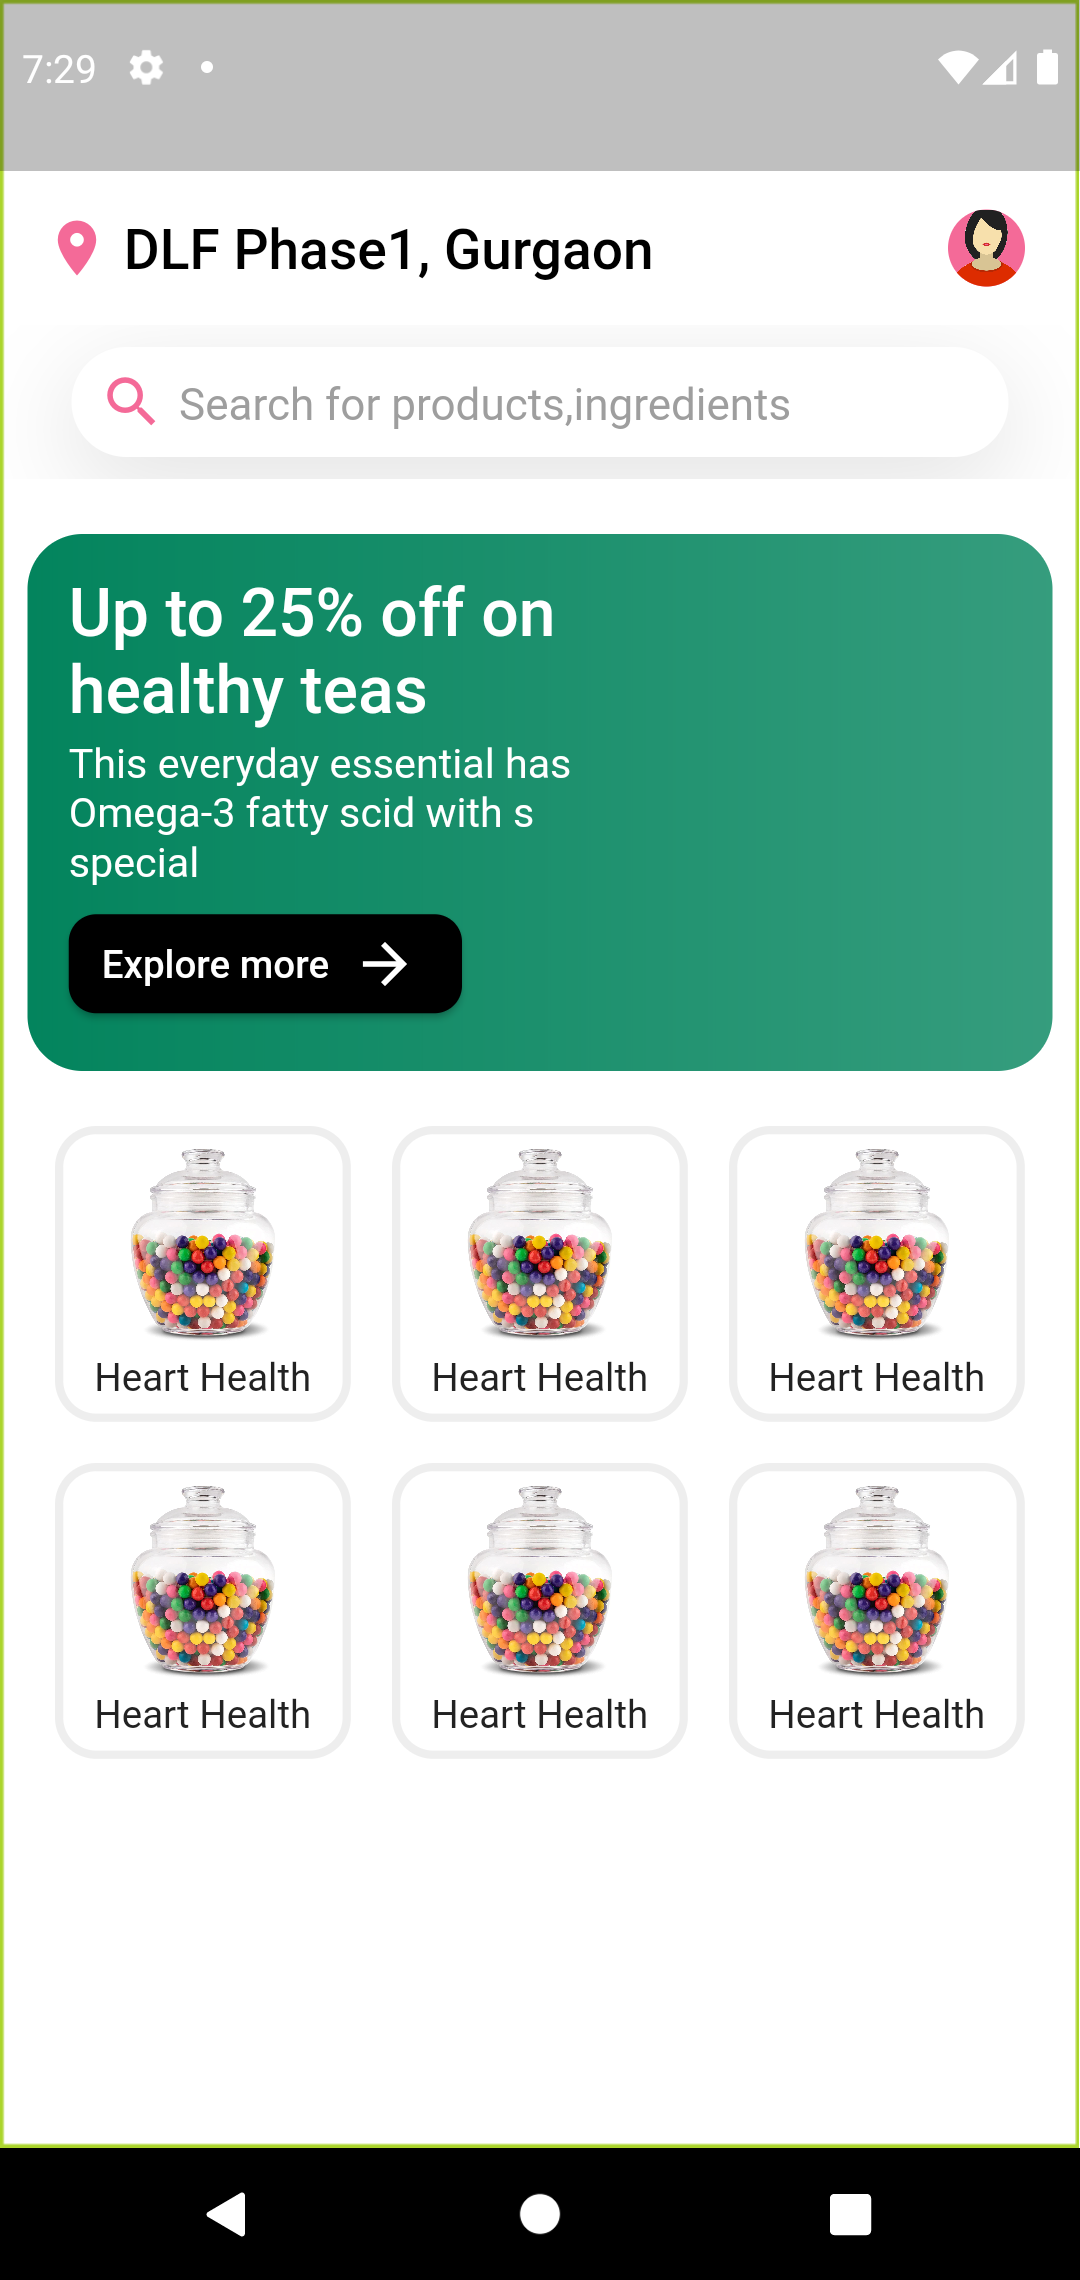
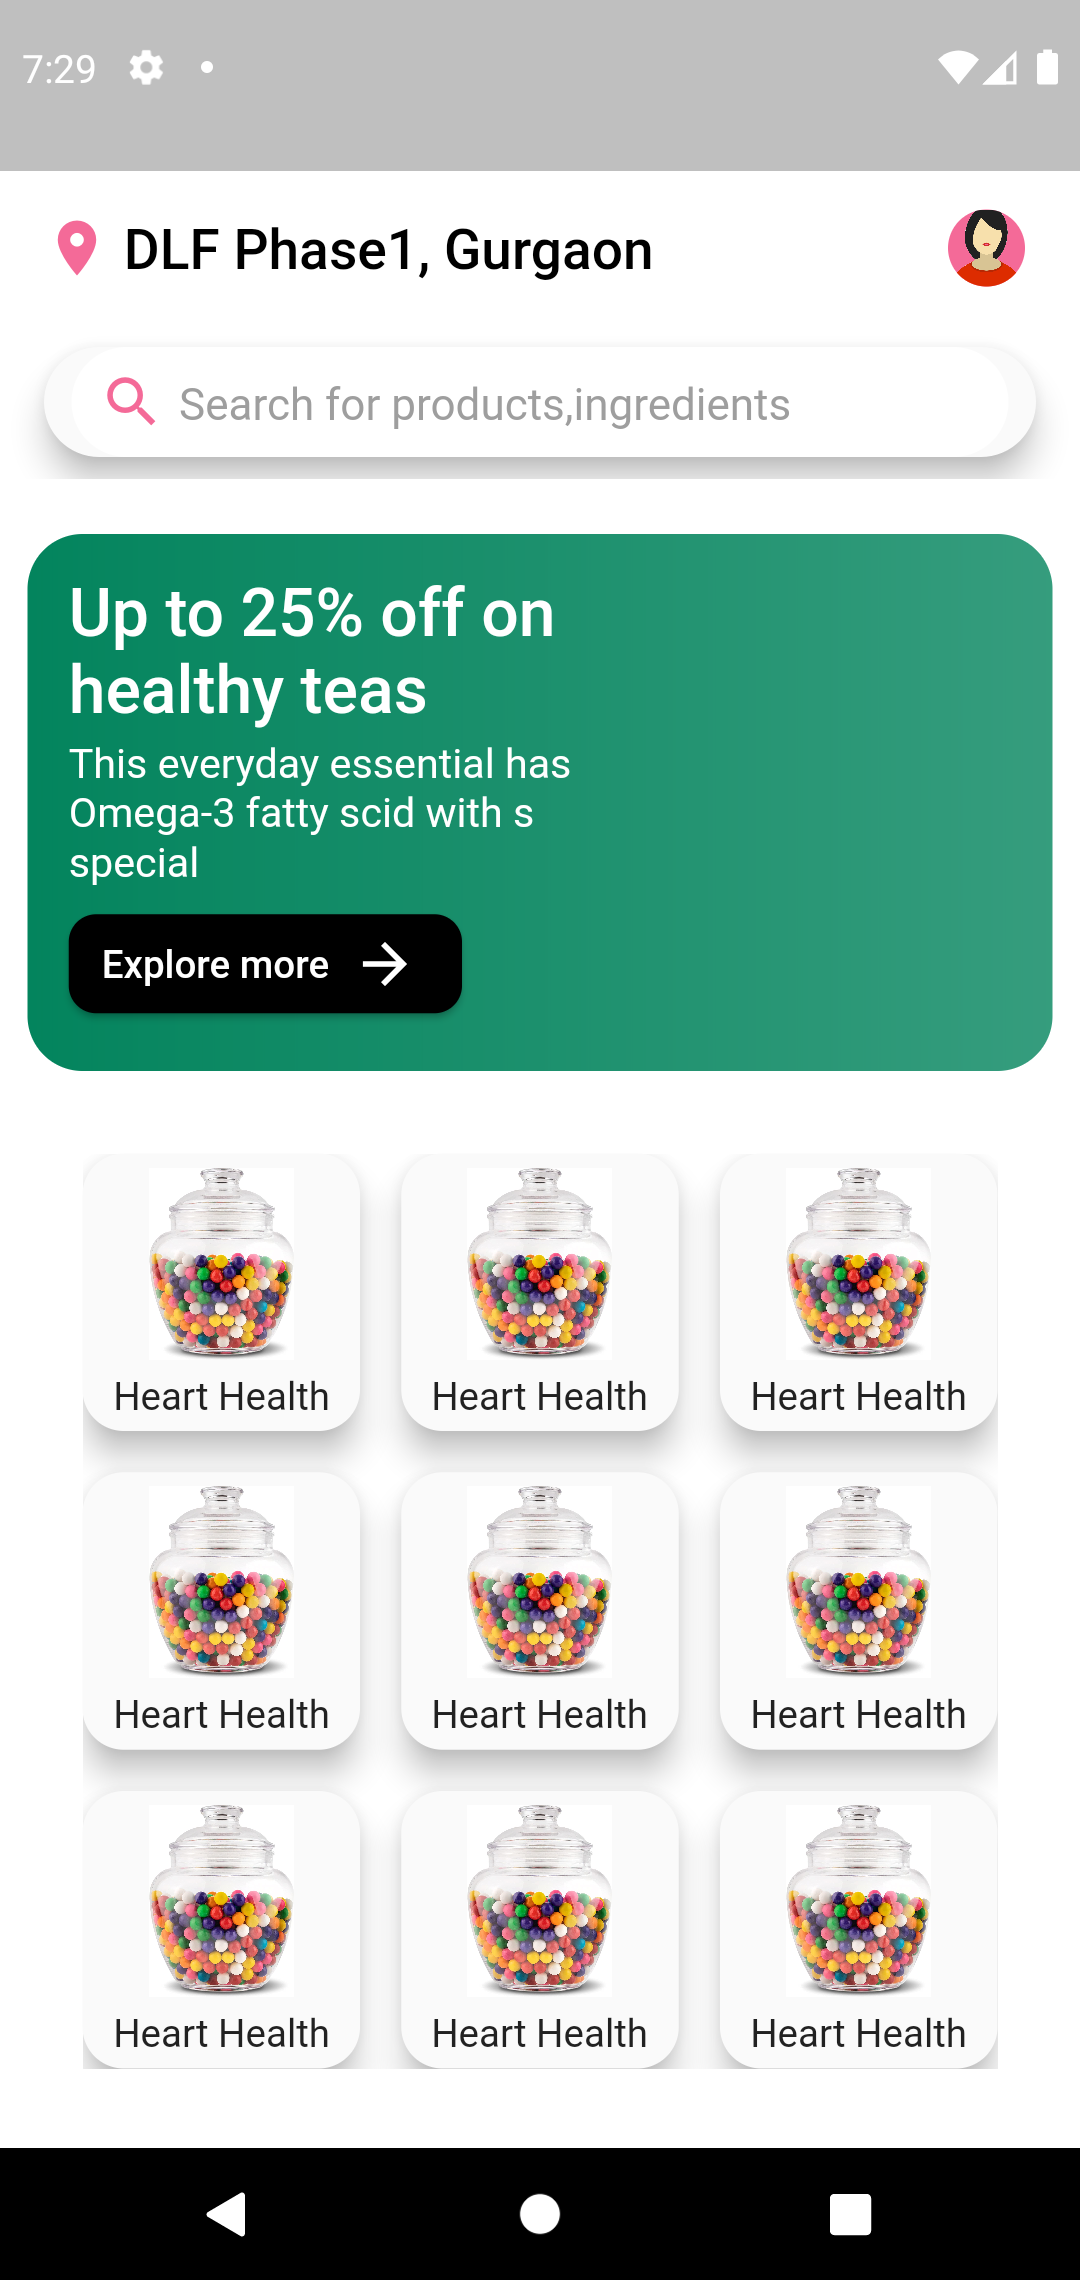
added elevation to containers

diff --git a/lib/ui/DLF ui/dlf_ui.dart b/lib/ui/DLF ui/dlf_ui.dart
@@ -53,47 +53,43 @@ class DLFUi extends StatelessWidget {
             bottom: AppBar(
               elevation: 0,
               backgroundColor: Colors.white,
-              title: Container(
-                alignment: Alignment.center,
-                margin: const EdgeInsets.symmetric(horizontal: 10),
-                padding: const EdgeInsets.symmetric(horizontal: 10),
-                height: 40,
-                decoration: BoxDecoration(
-                  color: Colors.white,
-                  borderRadius: const BorderRadius.all(
-                    Radius.circular(20),
+              title: Material(
+                elevation: 10,
+                borderRadius: BorderRadius.circular(20),
+                child: Container(
+                  alignment: Alignment.center,
+                  margin: const EdgeInsets.symmetric(horizontal: 10),
+                  padding: const EdgeInsets.symmetric(horizontal: 10),
+                  height: 40,
+                  decoration: const BoxDecoration(
+                    color: Colors.white,
+                    borderRadius: BorderRadius.all(
+                      Radius.circular(20),
+                    ),
                   ),
-                  boxShadow: [
-                    BoxShadow(
-                      blurRadius: 30,
-                      spreadRadius: 1,
-                      color: Colors.grey.withOpacity(0.3),
-                      offset: const Offset(0, 10),
-                    ),
-                  ],
-                ),
-                child: Row(
-                  children: const [
-                    Icon(
-                      Icons.search,
-                      color: pColor,
-                    ),
-                    SizedBox(
-                      width: 5,
-                    ),
-                    Expanded(
-                      child: TextField(
-                        decoration: InputDecoration(
-                          enabledBorder: InputBorder.none,
-                          focusedBorder: InputBorder.none,
-                          hintText: 'Search for products,ingredients',
-                          hintStyle: TextStyle(
-                            color: Colors.grey,
+                  child: Row(
+                    children: const [
+                      Icon(
+                        Icons.search,
+                        color: pColor,
+                      ),
+                      SizedBox(
+                        width: 5,
+                      ),
+                      Expanded(
+                        child: TextField(
+                          decoration: InputDecoration(
+                            enabledBorder: InputBorder.none,
+                            focusedBorder: InputBorder.none,
+                            hintText: 'Search for products,ingredients',
+                            hintStyle: TextStyle(
+                              color: Colors.grey,
+                            ),
                           ),
                         ),
                       ),
-                    ),
-                  ],
+                    ],
+                  ),
                 ),
               ),
             ),
@@ -147,10 +143,12 @@ class DLFUi extends StatelessWidget {
                 ),
               ),
               Container(
+                margin: const EdgeInsets.all(10),
+                color: Colors.white,
                 padding: const EdgeInsets.all(20),
                 child: GridView.builder(
                     shrinkWrap: true,
-                    itemCount: 6,
+                    itemCount: 9,
                     padding: const EdgeInsets.all(0),
                     gridDelegate:
                         const SliverGridDelegateWithFixedCrossAxisCount(
@@ -158,31 +156,34 @@ class DLFUi extends StatelessWidget {
                             crossAxisSpacing: 15,
                             crossAxisCount: 3),
                     itemBuilder: (ctx, index) {
-                      return Container(
-                        decoration: BoxDecoration(
-                          border:
-                              Border.all(color: Colors.grey[200]!, width: 3),
-                          borderRadius: const BorderRadius.all(
-                            Radius.circular(15),
+                      return Material(
+                        borderRadius: BorderRadius.circular(15),
+                        elevation: 10,
+                        child: Container(
+                          decoration: const BoxDecoration(
+                            borderRadius: BorderRadius.all(
+                              Radius.circular(15),
+                            ),
                           ),
-                        ),
-                        height: 100,
-                        width: 100,
-                        child: Column(
-                          mainAxisAlignment: MainAxisAlignment.spaceEvenly,
-                          children: [
-                            Container(
-                              height: 70,
-                              width: 60,
-                              decoration: const BoxDecoration(
-                                image: DecorationImage(
-                                  fit: BoxFit.fitHeight,
-                                  image: AssetImage('assets/images/candy.jpg'),
+                          height: 100,
+                          width: 100,
+                          child: Column(
+                            mainAxisAlignment: MainAxisAlignment.spaceEvenly,
+                            children: [
+                              Container(
+                                height: 70,
+                                width: 60,
+                                decoration: const BoxDecoration(
+                                  image: DecorationImage(
+                                    fit: BoxFit.fitHeight,
+                                    image:
+                                        AssetImage('assets/images/candy.jpg'),
+                                  ),
                                 ),
                               ),
-                            ),
-                            const Text('Heart Health')
-                          ],
+                              const Text('Heart Health')
+                            ],
+                          ),
                         ),
                       );
                     }),
